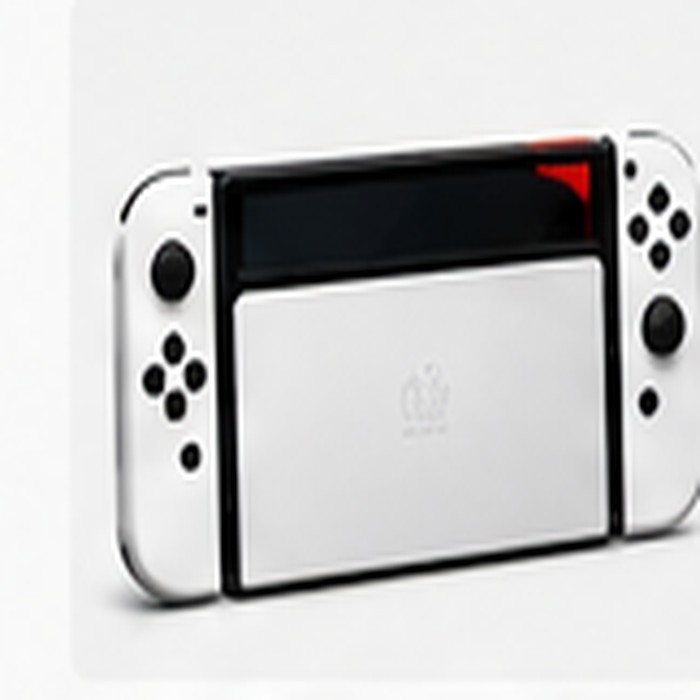
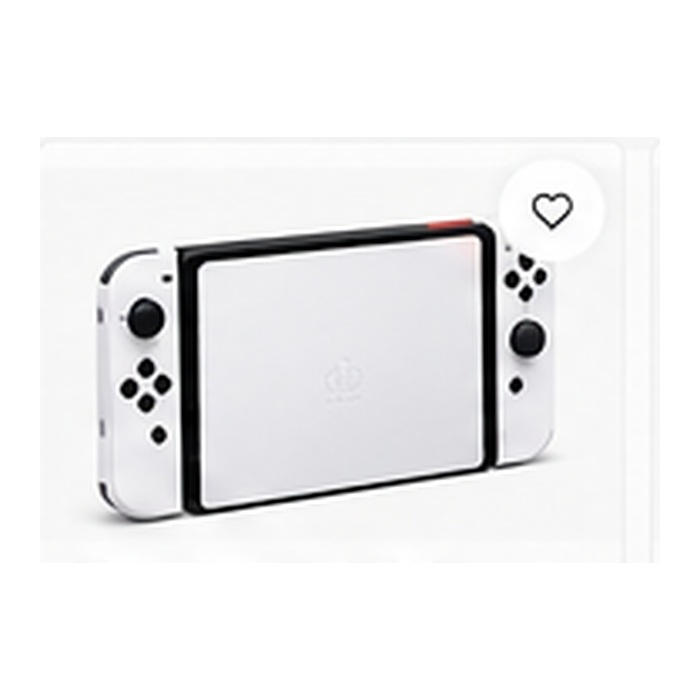
Add files via upload

diff --git a/RELEASE_NOTES.md b/RELEASE_NOTES.md
@@ -1,17 +1,9 @@
-# CUEVA Collectibles — V2 Release Notes
+# CUEVA Collectibles — V2
 
-## Image Quality Fix
-- Removed screenshot-derived product assets that contained neighboring products or interface text.
-- Product cards now use clean, local product photography assets.
-- Product images use `object-fit: contain` so products are never cropped inside cards.
-- Product detail and cart thumbnails also preserve the full product frame.
-
-## Catalog Cleanup
-- Reduced the demo catalog to products with clean, correctly matched imagery.
-- Standardized the console and collectible-model category naming.
-- Corrected the `Statues & Busts` navigation label.
-
-## Technical
-- GitHub Pages compatible.
-- All website assets remain local.
-- Existing cart, wishlist, filters, product detail, support, and responsive behavior retained.
+## Image quality rebuild
+- Replaced the previous featured-product screenshot crops with clean, isolated product photography crops.
+- Product cards now use square local assets with consistent white presentation and full-object framing.
+- Removed embedded text/buttons from category and promotional image assets.
+- Promotional cards keep copy in HTML instead of baking UI text into the photography.
+- Catalog names were synchronized with the actual product images.
+- All assets remain local for GitHub Pages.
